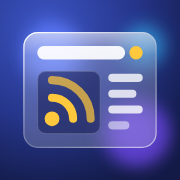
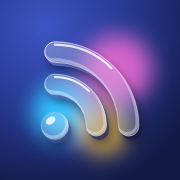
アイコン：アンテナだけの立体すりガラスにする（記事の要素はなし）
紺の背景はそのまま。点と2本の弧を、右下の厚み・影、背景の光（水色・ピンク・黄）が透ける
すりガラス、左上のふちのハイライトと表面の光沢で立体的に。中央にそろえた。
金色ガラスの案を docs/icon-antenna-gold.svg に残す。

Claude-Session: https://claude.ai/code/session_018Wqotyeq73C7tFsii4Ghkf

diff --git a/index.html b/index.html
@@ -7,8 +7,8 @@
     <meta name="apple-mobile-web-app-capable" content="yes" />
     <meta name="apple-mobile-web-app-status-bar-style" content="default" />
     <meta name="apple-mobile-web-app-title" content="PR Watcher" />
-    <link rel="icon" href="/icon.svg?v=5" type="image/svg+xml" />
-    <link rel="apple-touch-icon" href="/apple-touch-icon.png?v=5" />
+    <link rel="icon" href="/icon.svg?v=6" type="image/svg+xml" />
+    <link rel="apple-touch-icon" href="/apple-touch-icon.png?v=6" />
     <link rel="preconnect" href="https://fonts.googleapis.com" />
     <link rel="preconnect" href="https://fonts.gstatic.com" crossorigin />
     <link
